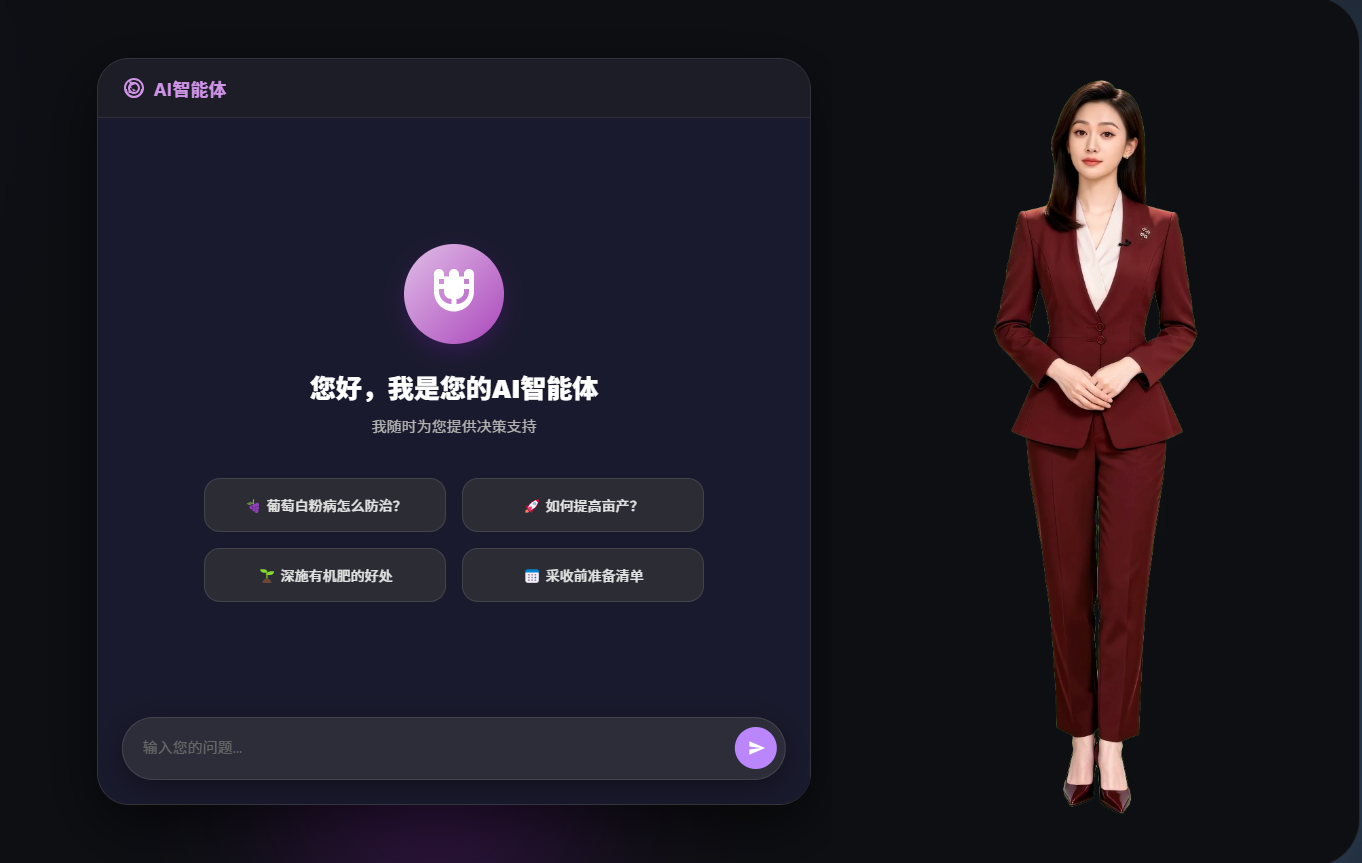
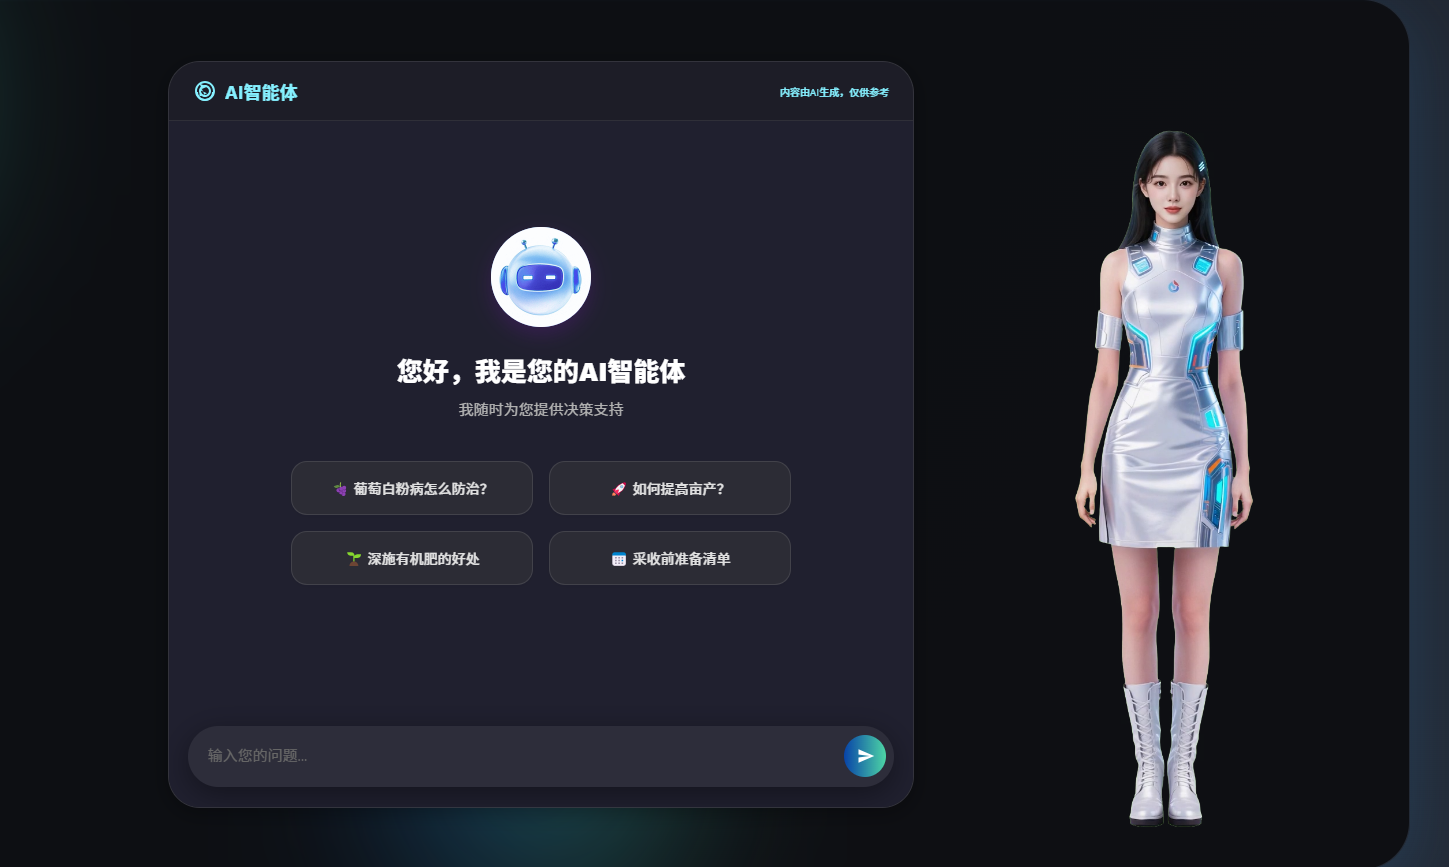
fix: 更新接口配置与资源路径
1.  更新了AI_Human组件的接口密钥与场景ID配置
2.  修正了JSZip请求的接口路径
3.  更新了dist/index.html的资源引用hash值
4.  修复了文件末尾缺少换行的问题

diff --git a/src/views/Com/AI_Human/AI_Human.vue b/src/views/Com/AI_Human/AI_Human.vue
@@ -263,12 +263,20 @@ const initAvatar = () => {
   player
     ?.on(PlayerEvents.play, () => console.log("sdk event: player play"))
     .on(PlayerEvents.playing, () => console.log("sdk event: player playing"));
-
+  //test2
+  // avatarPlatform.setApiInfo({
+  //   appId: "930f2299",
+  //   apiKey: "03c19bd47b67240c78edd40744261356",
+  //   apiSecret: "NmI1NzZhZDQ4ZTNjMjQwYzhlMTljOTRl",
+  //   sceneId: "320065619460493312",
+  //   serverUrl: "wss://avatar.cn-huadong-1.xf-yun.com/v1/interact",
+  // });
+  //test
   avatarPlatform.setApiInfo({
-    appId: "930f2299",
-    apiKey: "03c19bd47b67240c78edd40744261356",
-    apiSecret: "NmI1NzZhZDQ4ZTNjMjQwYzhlMTljOTRl",
-    sceneId: "320065619460493312",
+    appId: "e9eef25a",
+    apiKey: "eba52f7ad3e9955254ab357543a098de",
+    apiSecret: "N2VlNGJmNGIwMGFhYzc4ZmRiOGNmYzc3",
+    sceneId: "319683821131927552",
     serverUrl: "wss://avatar.cn-huadong-1.xf-yun.com/v1/interact",
   });
 
@@ -1324,3 +1332,4 @@ textarea:disabled {
   }
 }
 </style>
+

diff --git a/dist/index.html b/dist/index.html
@@ -14,7 +14,7 @@
   <title>CodesAndBox</title>
   <script src="https://unpkg.com/@antv/g6/build/g6.js"></script>
   <script src="https://media.xingyun3d.com/xingyun3d/general/litesdk/xmovAvatar@latest.js"></script>
-  <script type="module" crossorigin src="./assets/index-d72c85e6.js"></script>
+  <script type="module" crossorigin src="./assets/index-f5a82049.js"></script>
   <link rel="stylesheet" href="./assets/index-464172e9.css">
 </head>
 

diff --git a/src/App.vue b/src/App.vue
@@ -12,7 +12,7 @@ import userInfo from "@/store/userInfo/userInfo.js";
 const UserInfo = userInfo();
 const myZip = new JSZip();
 // JSZipUtils.getBinaryContent("/mapjson/json.zip", function (err, data) {
-JSZipUtils.getBinaryContent("/codesandbox/newJson", function (err, data) {
+JSZipUtils.getBinaryContent("/newJson", function (err, data) {
   if (err) {
     console.log("错了", err);
   } else {
